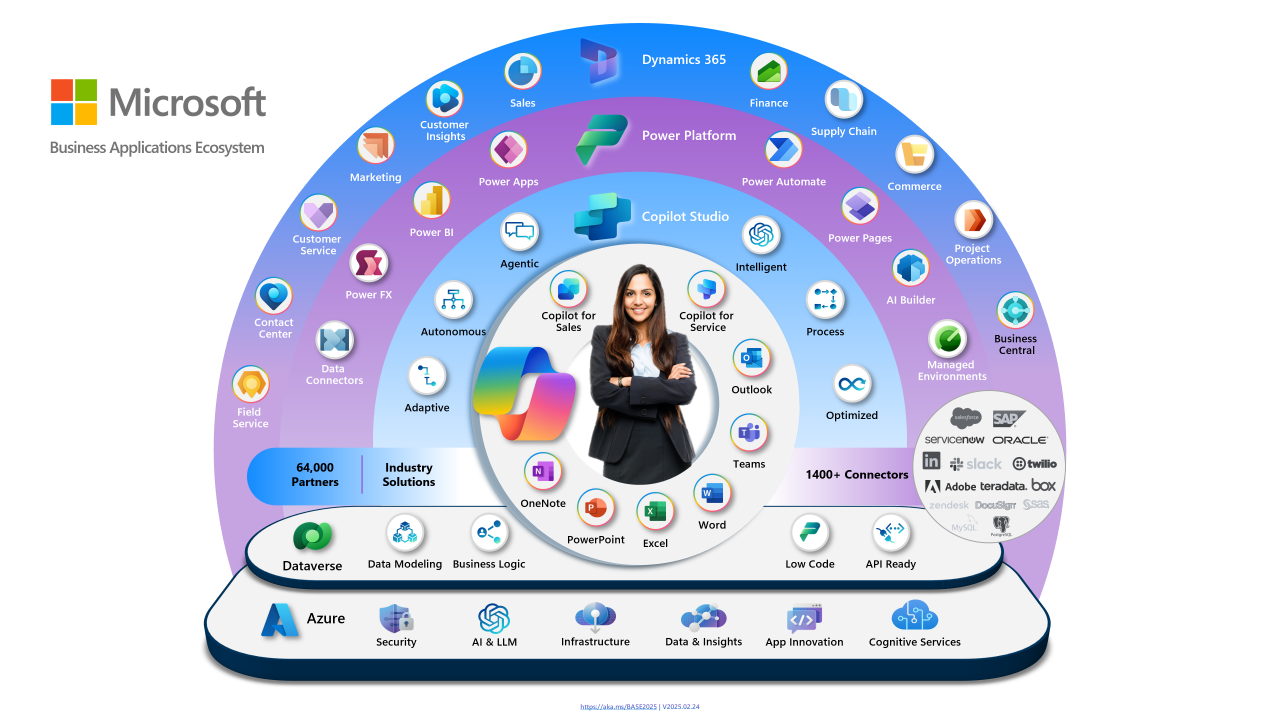
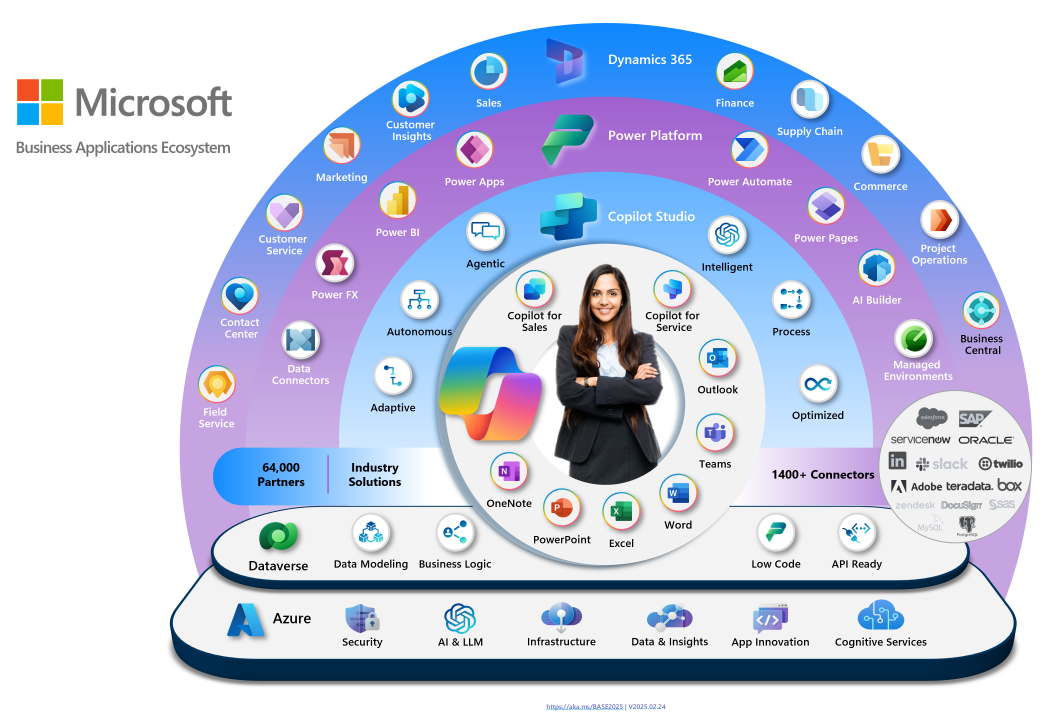
Css fixed

diff --git a/src/components/homes/home-1/AboutHomeOne.tsx b/src/components/homes/home-1/AboutHomeOne.tsx
@@ -11,11 +11,12 @@ export default function AboutHomeOne() {
                 About Company
               </span>
               <h4 className="tv-section-title pb-20 tv-spltv-text tv-spltv-in-right">
-                AtiSunya is a trusted Microsoft partner delivering digital solutions.
+                AtiSunya is a trusted Microsoft partner delivering digital
+                solutions.
               </h4>
             </div>
           </div>
-          <div className="col-xl-7 col-lg-7 text-end  ">
+          <div className="col-xl-7 col-lg-7 text-end">
             <div
               className="tv-fade-anim button"
               data-fade-from="top"
@@ -41,34 +42,37 @@ export default function AboutHomeOne() {
               <div className="tv-about-left">
                 <div className="single-icon-box">
                   <span>
-                    <img src="assets/img/icon/about-icon-1.png" alt="" />
+                    <img src="/assets/img/icon/about-icon-1.png" alt="" />
                   </span>
                   <div className="icon-box-content">
                     <h3>Our Mission</h3>
                     <p>
-                      To drive digital transformation through reliable Microsoft-based solutions.
+                      To drive digital transformation through reliable
+                      Microsoft-based solutions.
                     </p>
                   </div>
                 </div>
                 <div className="single-icon-box">
                   <span>
-                    <img src="assets/img/icon/about-icon-2.png" alt="" />
+                    <img src="/assets/img/icon/about-icon-2.png" alt="" />
                   </span>
                   <div className="icon-box-content">
-                    <h3>Our Vission</h3>
+                    <h3>Our Vision</h3>
                     <p>
-                      To drive innovation and excellence across industries worldwide.
+                      To drive innovation and excellence across industries
+                      worldwide.
                     </p>
                   </div>
                 </div>
                 <div className="single-icon-box">
                   <span>
-                    <img src="assets/img/icon/about-icon-3.png" alt="" />
+                    <img src="/assets/img/icon/about-icon-3.png" alt="" />
                   </span>
                   <div className="icon-box-content">
                     <h3>Our Awards</h3>
                     <p>
-                      Recognized for excellence in delivering Microsoft-based solutions and digital transformation services.
+                      Recognized for excellence in delivering Microsoft-based
+                      solutions and digital transformation services.
                     </p>
                   </div>
                 </div>
@@ -80,9 +84,10 @@ export default function AboutHomeOne() {
               data-wow-delay=".5s"
             >
               <div className="tv-about-middle">
-                <img src="assets/img/about/about-1-1.png" alt="" />
+                <img src="/assets/img/about/about-1-1.png" alt="" />
                 <p>
-                  Honored for delivering excellence through certified expertise, trusted partnerships, and innovative technology solutions.{` `}
+                  Honored for delivering excellence through certified expertise,
+                  trusted partnerships, and innovative technology solutions.
                 </p>
               </div>
             </div>
@@ -92,7 +97,7 @@ export default function AboutHomeOne() {
               data-wow-delay=".7s"
             >
               <div className="tv-about-right">
-                <img src="assets/img/about/about-1-2.png" alt="" />
+                <img src="/assets/img/about/about-1-2.png" alt="" />
               </div>
             </div>
           </div>

diff --git a/src/styles/scss/layout/_why-choose-us.scss b/src/styles/scss/layout/_why-choose-us.scss
@@ -6,9 +6,9 @@
 
 .why-choose-us-layout {
   display: grid;
-  grid-template-columns: minmax(0, 1.12fr) minmax(420px, 0.88fr);
-  gap: 56px;
-  align-items: stretch;
+  grid-template-columns: minmax(0, 0.92fr) minmax(420px, 1.08fr);
+  gap: 36px;
+  align-items: center;
 }
 
 .why-choose-us-content {
@@ -86,7 +86,7 @@
   line-height: 1.18;
   font-weight: 700;
   color: var(--tv-heading-primary);
-  letter-spacing: -0.02em;
+  letter-spacing: 0;
 }
 
 .why-choose-us-card-title--compact {
@@ -112,16 +112,21 @@
   min-height: 100%;
   display: flex;
   align-items: center;
-  justify-content: center;
+  justify-content: flex-start;
 }
 
 .why-choose-us-visual-frame {
   position: relative;
-  flex: 1;
-  min-height: 680px;
+  flex: none;
+  width: clamp(720px, 48vw, 920px);
+  aspect-ratio: 16 / 9;
+  min-height: 0;
   min-width: 0;
-  background: transparent;
-  overflow: hidden;
+  background: rgba(255, 255, 255, 0.86);
+  border: 1px solid rgba(28, 31, 86, 0.1);
+  border-radius: 8px;
+  box-shadow: 0 24px 50px rgba(28, 31, 86, 0.1);
+  overflow: visible;
 }
 
 .why-choose-us-image {
@@ -133,20 +138,20 @@
   padding: 0;
 
   img {
-    width: 118%;
-    max-width: none;
-    height: 118%;
-    max-height: none;
+    width: 100%;
+    max-width: 100%;
+    height: 100%;
+    max-height: 100%;
     display: block;
     object-fit: contain;
     object-position: center;
-    transform: scale(1.08);
+    transform: none;
   }
 }
 
 @media (max-width: 1399px) {
   .why-choose-us-layout {
-    grid-template-columns: minmax(0, 1.06fr) minmax(360px, 0.94fr);
+    grid-template-columns: minmax(0, 1fr) minmax(440px, 1fr);
     gap: 32px;
   }
 
@@ -159,13 +164,8 @@
   }
 
   .why-choose-us-visual-frame {
-    min-height: 620px;
-  }
-
-  .why-choose-us-image img {
-    width: 116%;
-    height: 116%;
-    transform: scale(1.05);
+    flex: 1;
+    width: min(100%, 700px);
   }
 }
 
@@ -195,16 +195,11 @@
 
   .why-choose-us-visual {
     order: 2;
+    justify-content: center;
   }
 
   .why-choose-us-visual-frame {
-    min-height: 560px;
-  }
-
-  .why-choose-us-image img {
-    width: 108%;
-    height: 108%;
-    transform: scale(1.02);
+    width: min(100%, 720px);
   }
 }
 
@@ -262,13 +257,10 @@
   }
 
   .why-choose-us-visual-frame {
-    min-height: 420px;
+    width: 100%;
   }
 
-  .why-choose-us-image img {
-    width: 108%;
-    height: auto;
-    max-height: 100%;
-    transform: scale(1);
+  .why-choose-us-image {
+    padding: 0;
   }
 }

diff --git a/src/components/homes/home-1/WhyChooseUsSection.tsx b/src/components/homes/home-1/WhyChooseUsSection.tsx
@@ -174,7 +174,7 @@ export default function WhyChooseUsSection() {
               <motion.div className="why-choose-us-image" variants={imageInnerVariants}>
                 <img
                   src="/assets/img/service/Dynamics365Ecosystem.png"
-                  alt="Professional consultant working on a laptop"
+                  alt="Microsoft Dynamics 365 ecosystem diagram"
                 />
               </motion.div>
             </div>
